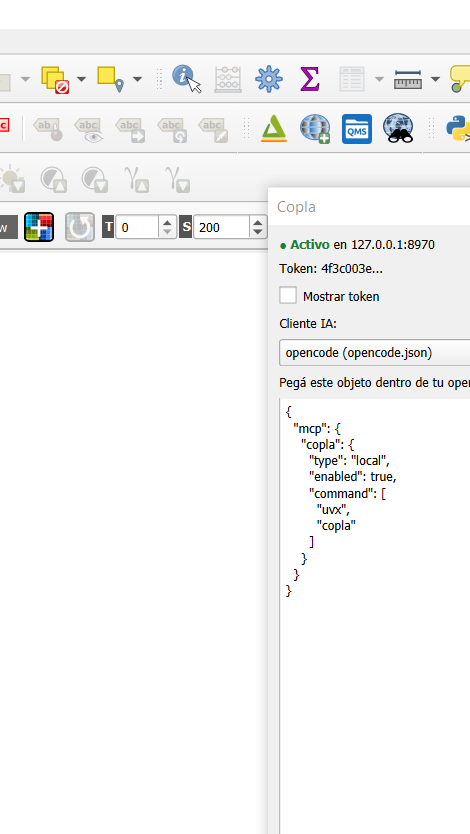
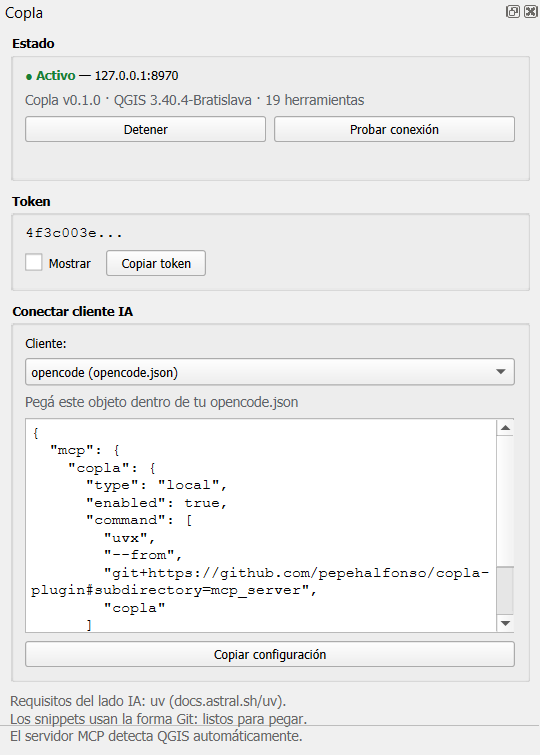
Redesign dock UI with grouped panels, self-test and tabified layout

diff --git a/plugin/copla_plugin.py b/plugin/copla_plugin.py
@@ -10,19 +10,22 @@ import os
 import secrets
 
 from qgis.core import Qgis, QgsApplication
-from qgis.PyQt.QtCore import Qt
+from qgis.PyQt.QtCore import Qt, QTimer, QUrl
+from qgis.PyQt.QtNetwork import QNetworkAccessManager, QNetworkReply, QNetworkRequest
 from qgis.PyQt.QtWidgets import (
     QAction,
     QCheckBox,
     QComboBox,
     QDockWidget,
+    QGroupBox,
+    QHBoxLayout,
     QLabel,
     QPlainTextEdit,
     QPushButton,
     QVBoxLayout,
     QWidget,
 )
-from qgis.PyQt.QtGui import QGuiApplication, QIcon
+from qgis.PyQt.QtGui import QFontDatabase, QGuiApplication, QIcon
 
 from .discovery import TOKEN_NAME, remove_config, write_config
 from .http_server import CoplaHttpServer
@@ -131,6 +134,8 @@ class CoplaPlugin:
         self.server = None
         self.dock = None
         self.action = None
+        self._qnam = None
+        self._tabify_attempted = False
 
     # ------------------------------------------------------------- lifecycle
 
@@ -168,6 +173,8 @@ class CoplaPlugin:
         if self.server is not None and self.server.is_listening():
             return True
         self.token = _load_token()
+        if self.dock is not None:
+            self.test_result.setText("")
         server = CoplaHttpServer(
             self.port,
             self.token,
@@ -205,6 +212,8 @@ class CoplaPlugin:
         if self.server is not None:
             self.server.stop()
             self.server = None
+        if self.dock is not None:
+            self.test_result.setText("")
         try:
             remove_config(_profile_dir())
         except OSError:
@@ -235,48 +244,88 @@ class CoplaPlugin:
         dock.setObjectName("CoplaDock")
         widget = QWidget()
         layout = QVBoxLayout(widget)
+        layout.setContentsMargins(8, 8, 8, 8)
+        layout.setSpacing(8)
+        try:
+            mono = QFontDatabase.systemFont(QFontDatabase.FixedFont)
+        except AttributeError:
+            mono = QFontDatabase.systemFont(QFontDatabase.SystemFont.FixedFont)
 
+        group_state = QGroupBox("Estado")
+        state_l = QVBoxLayout(group_state)
+        state_l.setSpacing(6)
         self.status_label = QLabel()
-        layout.addWidget(self.status_label)
+        self.info_label = QLabel(
+            "Copla v%s · QGIS %s · %d herramientas"
+            % (PLUGIN_VERSION, Qgis.QGIS_VERSION, len(tools_manifest()))
+        )
+        self.info_label.setStyleSheet("color:#5f6368; font-size:11px;")
+        row_state = QHBoxLayout()
+        self.toggle_btn = QPushButton("Detener")
+        self.toggle_btn.clicked.connect(self._toggle_from_dock)
+        self.test_btn = QPushButton("Probar conexión")
+        self.test_btn.clicked.connect(self._self_test)
+        row_state.addWidget(self.toggle_btn)
+        row_state.addWidget(self.test_btn)
+        self.test_result = QLabel("")
+        self.test_result.setWordWrap(True)
+        self.test_result.setStyleSheet("font-size:11px;")
+        state_l.addWidget(self.status_label)
+        state_l.addWidget(self.info_label)
+        state_l.addLayout(row_state)
+        state_l.addWidget(self.test_result)
+        layout.addWidget(group_state)
 
+        group_token = QGroupBox("Token")
+        token_l = QVBoxLayout(group_token)
+        token_l.setSpacing(6)
         self.token_label = QLabel()
         self.token_label.setTextInteractionFlags(Qt.TextSelectableByMouse)
-        layout.addWidget(self.token_label)
-
-        self.show_token = QCheckBox("Mostrar token")
+        self.token_label.setFont(mono)
+        row_token = QHBoxLayout()
+        self.show_token = QCheckBox("Mostrar")
         self.show_token.toggled.connect(lambda _: self._refresh_status())
-        layout.addWidget(self.show_token)
+        copy_token = QPushButton("Copiar token")
+        copy_token.clicked.connect(self._copy_token)
+        row_token.addWidget(self.show_token)
+        row_token.addWidget(copy_token)
+        row_token.addStretch(1)
+        token_l.addWidget(self.token_label)
+        token_l.addLayout(row_token)
+        layout.addWidget(group_token)
 
-        layout.addWidget(QLabel("Cliente IA:"))
+        group_client = QGroupBox("Conectar cliente IA")
+        client_l = QVBoxLayout(group_client)
+        client_l.setSpacing(6)
+        client_l.addWidget(QLabel("Cliente:"))
         self.client_combo = QComboBox()
         for key, entry in SNIPPETS.items():
             self.client_combo.addItem(entry["label"], key)
         self.client_combo.currentIndexChanged.connect(lambda _: self._refresh_snippet())
-        layout.addWidget(self.client_combo)
-
+        client_l.addWidget(self.client_combo)
         self.snippet_hint = QLabel()
         self.snippet_hint.setWordWrap(True)
-        layout.addWidget(self.snippet_hint)
-
+        self.snippet_hint.setStyleSheet("color:#5f6368; font-size:11px;")
+        client_l.addWidget(self.snippet_hint)
         self.snippet_edit = QPlainTextEdit()
         self.snippet_edit.setReadOnly(True)
-        self.snippet_edit.setMinimumHeight(140)
-        layout.addWidget(self.snippet_edit)
-
+        self.snippet_edit.setFont(mono)
+        self.snippet_edit.setMinimumHeight(110)
+        client_l.addWidget(self.snippet_edit)
         copy_button = QPushButton("Copiar configuración")
         copy_button.clicked.connect(self._copy_snippet)
-        layout.addWidget(copy_button)
+        client_l.addWidget(copy_button)
+        layout.addWidget(group_client)
 
         note = QLabel(
-            "Lado MCP: requiere uv (docs.astral.sh/uv).\n"
-            "Los snippets ya usan la forma Git, listos para pegar.\n"
-            "El servidor MCP detecta QGIS solo."
+            "Requisitos del lado IA: uv (docs.astral.sh/uv).\n"
+            "Los snippets usan la forma Git: listos para pegar.\n"
+            "El servidor MCP detecta QGIS automáticamente."
         )
         note.setWordWrap(True)
-        note.setStyleSheet("color: #666; font-size: 11px;")
+        note.setStyleSheet("color:#666; font-size:11px;")
         layout.addWidget(note)
 
-        widget.setLayout(layout)
         dock.setWidget(widget)
         try:
             area = Qt.RightDockWidgetArea
@@ -284,8 +333,44 @@ class CoplaPlugin:
             area = Qt.DockWidgetArea.RightDockWidgetArea
         self.iface.addDockWidget(area, dock)
         self.dock = dock
+        self._tabify_retries = 0
+        self._try_tabify()
+        QTimer.singleShot(3000, self._tabify_recheck)
         self._refresh_snippet()
         self._refresh_status()
+
+    def _tabify_recheck(self):
+        if self.dock is None or self._tabify_attempted:
+            return
+        self._tabify_retries += 1
+        self._try_tabify()
+        if not self._tabify_attempted and self._tabify_retries < 20:
+            QTimer.singleShot(3000, self._tabify_recheck)
+
+    def _try_tabify(self):
+        if self.dock is None:
+            return
+        window = self.iface.mainWindow()
+        if window.tabifiedDockWidgets(self.dock):
+            self.dock.raise_()
+            self._tabify_attempted = True
+            return
+        if self._tabify_attempted:
+            return
+        try:
+            area = Qt.RightDockWidgetArea
+        except AttributeError:
+            area = Qt.DockWidgetArea.RightDockWidgetArea
+        for other in window.findChildren(QDockWidget):
+            if (
+                other is not self.dock
+                and other.isVisible()
+                and window.dockWidgetArea(other) == area
+            ):
+                window.tabifyDockWidget(other, self.dock)
+                self.dock.raise_()
+                self._tabify_attempted = True
+                return
 
     def _refresh_status(self):
         if self.dock is None:
@@ -293,15 +378,80 @@ class CoplaPlugin:
         running = self.server is not None and self.server.is_listening()
         if running:
             self.status_label.setText(
-                "<b style='color:#1a7f37'>● Activo</b> en 127.0.0.1:%d" % self.port
+                "<b style='color:#1a7f37'>● Activo</b> — 127.0.0.1:%d" % self.port
             )
+            self.toggle_btn.setText("Detener")
+            self.test_btn.setEnabled(True)
         else:
             self.status_label.setText("<b style='color:#b42318'>● Detenido</b>")
+            self.toggle_btn.setText("Iniciar")
+            self.test_btn.setEnabled(False)
+        token = self.token or "-"
         if self.show_token.isChecked():
-            self.token_label.setText("Token: %s" % (self.token or "-"))
+            self.token_label.setText(token)
         else:
-            token = self.token or "-"
-            self.token_label.setText("Token: %s..." % token[:8])
+            self.token_label.setText("%s..." % token[:8])
+
+    def _toggle_from_dock(self):
+        running = self.server is not None and self.server.is_listening()
+        if running:
+            self.stop()
+        else:
+            self.start()
+
+    def _copy_token(self):
+        QGuiApplication.clipboard().setText(self.token or "")
+        self._bar("Token copiado al portapapeles")
+
+    def _self_test(self):
+        if self.server is None or not self.server.is_listening():
+            return
+        self.test_btn.setEnabled(False)
+        self.test_result.setStyleSheet("font-size:11px; color:#5f6368;")
+        self.test_result.setText("Probando…")
+        request = QNetworkRequest(
+            QUrl("http://127.0.0.1:%d/v1/tools" % self.port)
+        )
+        request.setRawHeader(b"X-Copla-Token", (self.token or "").encode("ascii"))
+        try:
+            request.setTransferTimeout(4000)
+        except AttributeError:
+            pass
+        if self._qnam is None:
+            self._qnam = QNetworkAccessManager(self.dock)
+        reply = self._qnam.get(request)
+        reply.finished.connect(lambda: self._self_test_done(reply))
+
+    def _self_test_done(self, reply):
+        try:
+            if self.dock is None:
+                return
+            status = reply.attribute(QNetworkRequest.HttpStatusCodeAttribute)
+            try:
+                no_error = QNetworkReply.NetworkError.NoError
+            except AttributeError:
+                no_error = QNetworkReply.NoError
+            if reply.error() == no_error:
+                tools = []
+                try:
+                    data = json.loads(bytes(reply.readAll().data()).decode("utf-8"))
+                    tools = data.get("tools") or []
+                except (ValueError, UnicodeDecodeError, AttributeError):
+                    pass
+                self.test_result.setStyleSheet("font-size:11px; color:#1a7f37;")
+                self.test_result.setText(
+                    "✓ Responde correctamente — %d herramientas" % len(tools)
+                )
+            elif status == 401:
+                self.test_result.setStyleSheet("font-size:11px; color:#b42318;")
+                self.test_result.setText("✗ Token rechazado (401)")
+            else:
+                self.test_result.setStyleSheet("font-size:11px; color:#b42318;")
+                self.test_result.setText("✗ Sin respuesta: %s" % reply.errorString())
+        finally:
+            reply.deleteLater()
+            if self.dock is not None:
+                self.test_btn.setEnabled(True)
 
     def _refresh_snippet(self):
         if self.dock is None:
